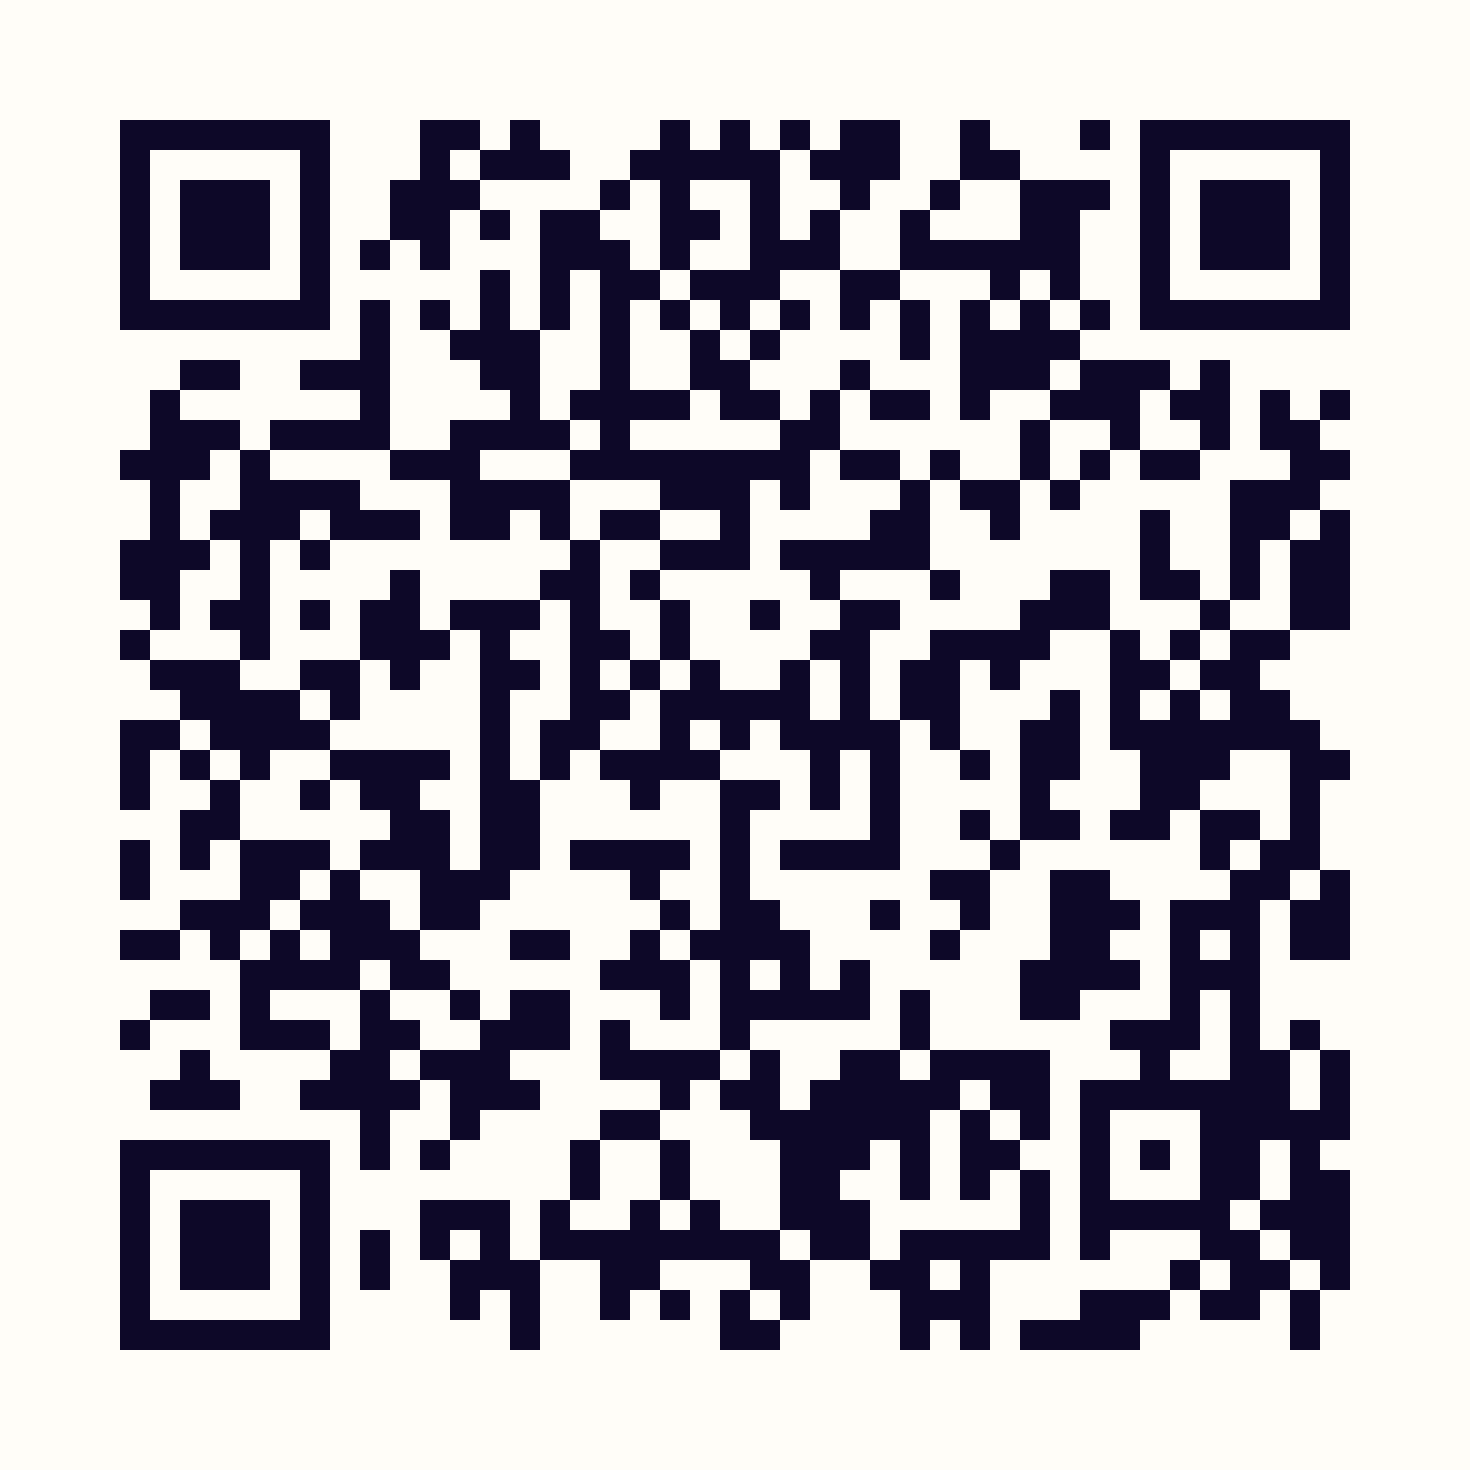
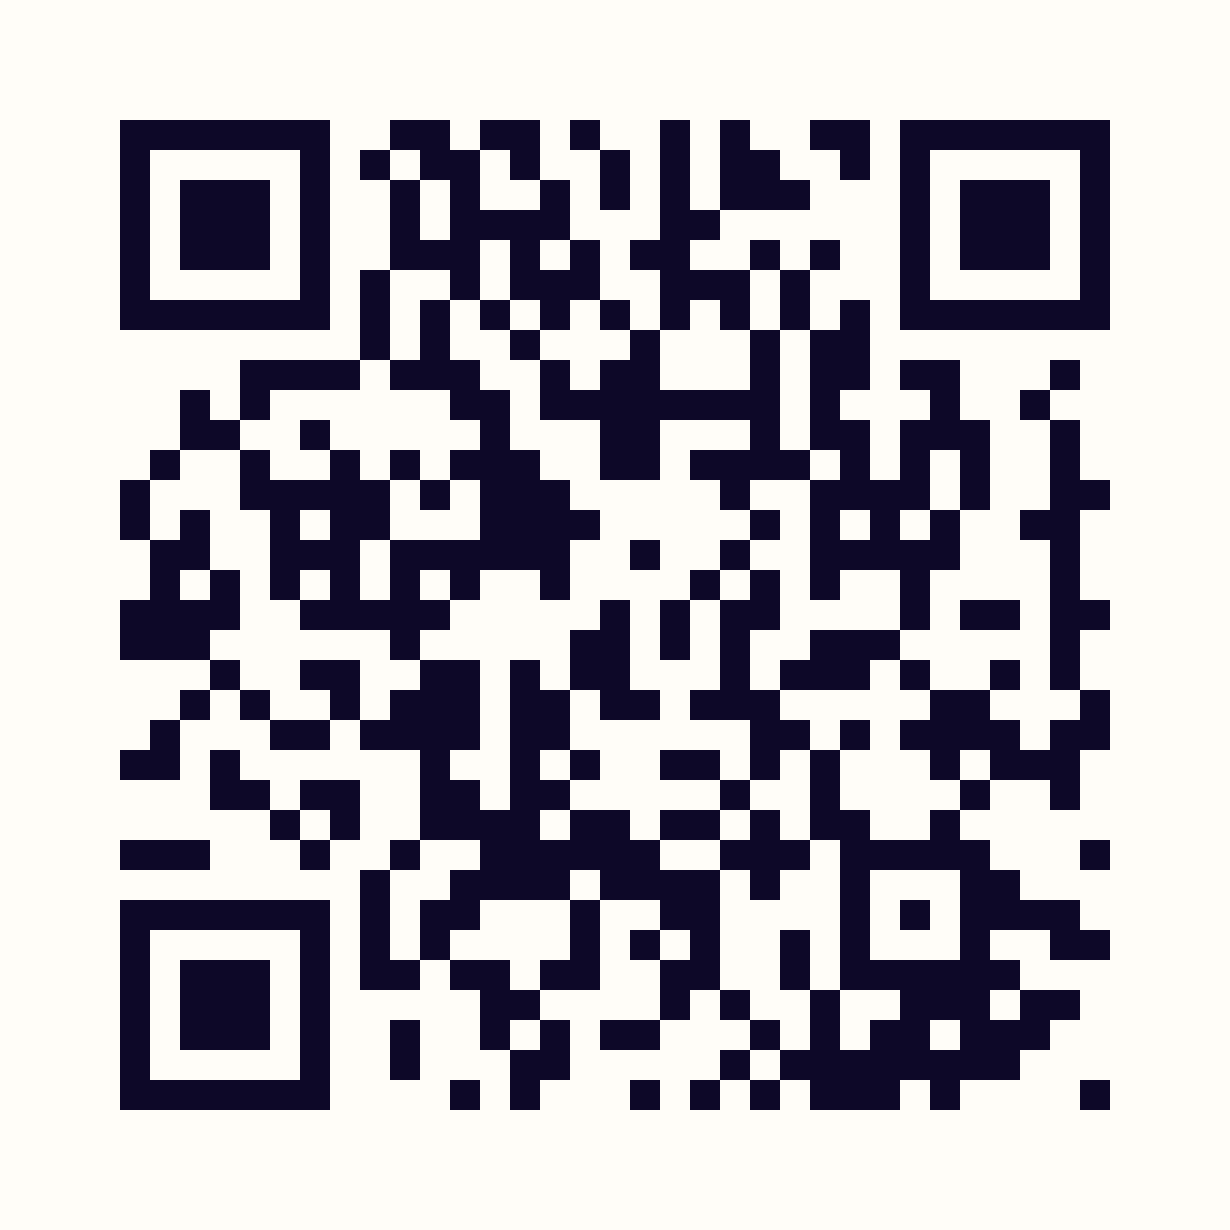
update

diff --git a/poster.html b/poster.html
@@ -139,9 +139,9 @@
   </div>
 
   <div class="qrwrap">
-    <img src="qr.png" alt="QR code linking to swapnildagliya.github.io/GIDF-Quiz" />
+    <img src="qr.png" alt="QR code linking to quiz.abcdans.com" />
     <div class="qrlabel">Open camera <span class="arrow">→</span> point at code <span class="arrow">→</span> tap link</div>
-    <div class="qrurl">Or visit <b>swapnildagliya.github.io/GIDF-Quiz</b></div>
+    <div class="qrurl">Or visit <b>quiz.abcdans.com</b></div>
   </div>
 
   <div class="rules">

diff --git a/bar-cheatsheet.html b/bar-cheatsheet.html
@@ -110,7 +110,7 @@
       <label>Staff PIN — type once per shift</label>
       <div class="pin-value">419032</div>
       <div class="pin-hint">After scanning the QR, type the PIN once. The page stays unlocked for the rest of your shift — leave the tab open.</div>
-      <div class="url">URL fallback: <b>swapnildagliya.github.io/GIDF-Quiz/bar.html</b></div>
+      <div class="url">URL fallback: <b>quiz.abcdans.com/bar.html</b></div>
     </div>
   </div>
 
